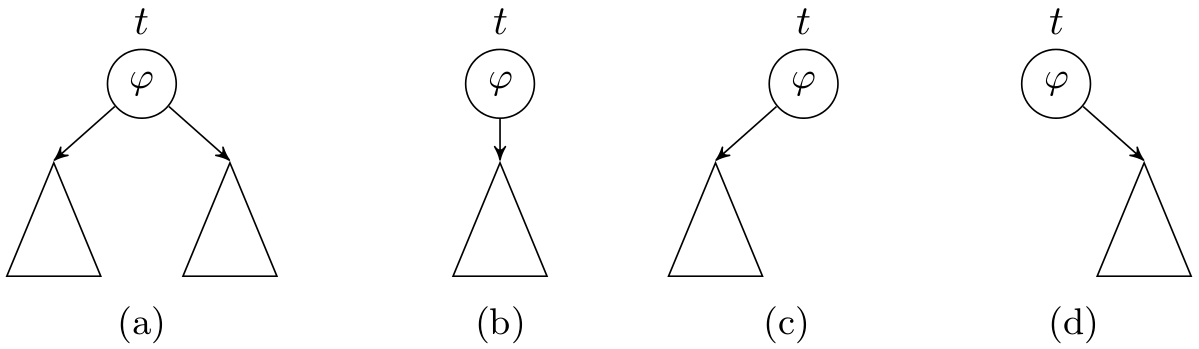
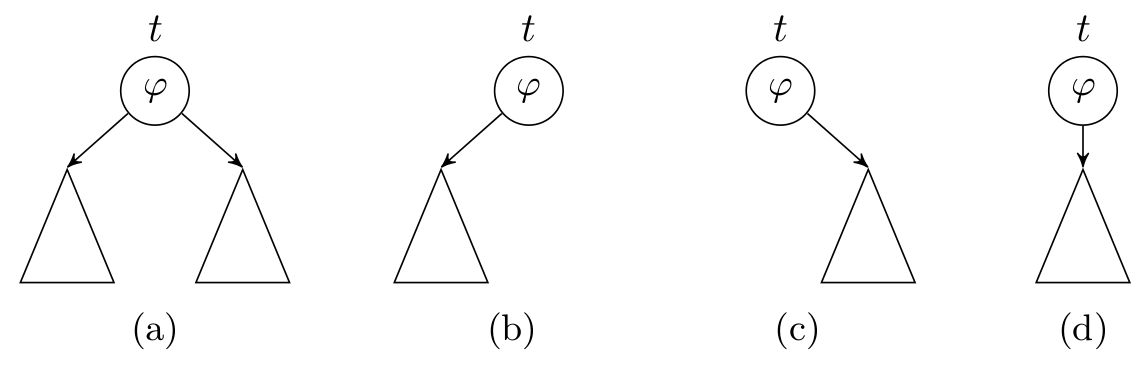
Finished the practice in practice.txt.

diff --git a/ptrees.tex b/ptrees.tex
@@ -103,6 +103,9 @@
 \newcommand{\tit}[1]{\textit{#1}}
 \newcommand{\tbf}[1]{\textbf{#1}}
 
+\newcommand\subsetsim{\mathrel{%
+  \ooalign{\raise0.2ex\hbox{$\subset$}\cr\hidewidth\raise-0.8ex\hbox{\scalebox{0.9}{$\sim$}}\hidewidth\cr}}}
+
 \newcommand{\Fontalg}{\fontsize{7}{7.2}\selectfont}
 
 \newcommand{\frameT}[2]{\frame{\frametitle{#1} #2}}
@@ -159,19 +162,12 @@
 						}, or \tit{P-trees},
 					and formally introduce their \tit{compact} representations.
 		\item We relate P-trees to existing preference formalisms such as
-					\tit{lexicographic preference trees}\fn{
-						Booth, Chevaleyre, Lang, Mengin, and Sombattheera.
-						\tit{Learning conditionally lexicographic preference relations}, 2010.
-						} (\tit{LP-trees}), 
-					\tit{answer set optimization}\fn{
-						Brewka, Niemel¨a, and Truszczynski. \tit{Answer set optimization}, 2003.
-						} (\tit{ASO}) and \tit{possibilistic logic}\fn{
-						Dubois, Lang, and Prade.
-						\tit{A brief overview of possibilistic logic}, 1991.} (\tit{Poss-theories}).
+					\tit{lexicographic preference trees} (\tit{LP-trees}), 
+					\tit{answer set optimization} (\tit{ASO}) and \tit{possibilistic 
+					logic} (\tit{Poss-theories}).
 		\item We study decision problems in the setting of P-trees and obtain computational
 					complexity results.
 	\end{enumerate}
-
 }
 
 
@@ -266,6 +262,88 @@
 	\begin{center}
 		$\textcolor{red}{\neg x_1 \neg x_2x_3\neg x_4} \succ \textcolor{green}{x_1 \neg x_2x_3x_4}$
 	\end{center}
+}
+
+\frameT{Compact Representation of P-trees}{
+\begin{figure}[!ht]
+	\centering
+		\subfigure[Full]{
+		\centering
+		  \begin{tikzpicture}[->,>=stealth',
+  	     level 1/.style={sibling distance=4.3cm, level distance=28pt},
+  	     level 2/.style={sibling distance=2.2cm, level distance=28pt},
+  	     level 3/.style={sibling distance=1.0cm, level distance=28pt},
+  	     level 4/.style={sibling distance=0.5cm, level distance=28pt}]
+		    \node [main node,inner sep=1.7pt] (1){$\varphi_1$}
+		    child {node [main node,inner sep=1.7pt] (2) {$\varphi_2$}
+		      child {node [main node,inner sep=1.7pt] (3) {$\varphi_3$}
+		        child {node [main node,inner sep=1.7pt] (4) {$\varphi_4$}
+  	          child {node [rectangle,draw] (16) {}}
+  	          child {node [rectangle,draw] (17) {}}
+						}
+		        child {node [main node,inner sep=1.7pt] (5) {$\varphi_4$}
+  	          child {node [rectangle,draw] (18) {}}
+  	          child {node [rectangle,draw] (19) {}}
+						}
+					}
+		      child {node [main node,inner sep=1.7pt] (6) {$\varphi_3$}
+		        child {node [main node,inner sep=1.7pt] (7) {$\varphi_4$}
+  	          child {node [rectangle,draw] (20) {}}
+  	          child {node [rectangle,draw] (21) {}}
+						}
+		        child {node [main node,inner sep=1.7pt] (8) {$\varphi_4$}
+  	          child {node [rectangle,draw] (22) {}}
+  	          child {node [rectangle,draw] (23) {}}
+						}
+		      }
+				}
+		    child {node [main node,inner sep=1.7pt] (9) {$\varphi_2$}
+		      child {node [main node,inner sep=1.7pt] (10) {$\varphi_3$}
+		        child {node [main node,inner sep=1.7pt] (11) {$\varphi_4$}
+  	          child {node [rectangle,draw] (24) {}}
+  	          child {node [rectangle,draw] (25) {}}
+						}
+		        child {node [main node,inner sep=1.7pt] (12) {$\varphi_4$}
+  	          child {node [rectangle,draw] (26) {}}
+  	          child {node [rectangle,draw] (27) {}}
+						}
+					}
+		      child {node [main node,inner sep=1.7pt] (13) {$\varphi_3$}
+		        child {node [main node,inner sep=1.7pt] (14) {$\varphi_4$}
+  	          child {node [rectangle,draw] (28) {}}
+  	          child {node [rectangle,draw] (29) {}}
+						}
+		        child {node [main node,inner sep=1.7pt] (15) {$\varphi_4$}
+  	          child {node [rectangle,draw] (30) {}}
+  	          child {node [rectangle,draw] (31) {}}
+						}
+		      }
+				}
+				;
+		  \end{tikzpicture}
+		}%
+		\subfigure[Compact]{
+			\hspace{0.8cm}
+			\begin{tikzpicture}[->,>=stealth',
+  	     level 1/.style={sibling distance=4.3cm, level distance=28pt},
+  	     level 2/.style={sibling distance=2.2cm, level distance=28pt},
+  	     level 3/.style={sibling distance=1.0cm, level distance=28pt},
+  	     level 4/.style={sibling distance=0.5cm, level distance=28pt}]
+			  \node [main node,inner sep=1.7pt] (1){$\varphi_1$}
+			    child {node [main node,inner sep=1.7pt] (3) {$\varphi_2$}
+						child {node [main node,inner sep=1.7pt] (4) {$\varphi_3$}
+							child {node [main node,inner sep=1.7pt] (5) {$\varphi_4$}
+              	child {node [rectangle] (6) {} edge from parent[draw=none]}
+							}
+						}
+					};
+			\end{tikzpicture}
+			\hspace{0.8cm}
+		}
+  \caption{Compact P-trees}
+%	\vspace{-0.2cm}
+  \label{fig:LPT_full}
+\end{figure}
 }
 
 \frameT{Compact Representation of P-trees}{
@@ -372,8 +450,8 @@
 		\item every node is labeled with a Boolean formula over $\cI$, and
 	  \item every non-leaf node $t$ labeled with $\varphi$ has either
 	        two outgoing edges (Figure (a)), or one 
-	    		outgoing edge pointing straight-down (Figure (b)),
-					left (Figure (c)), or right (Figure (d)).
+	    		outgoing edge pointing left (Figure (b)),
+					right (Figure (c)), or straight-down (Figure (d)).
 	\end{enumerate}
 	
 	\begin{figure}[ht!]
@@ -385,7 +463,10 @@
 
 
 \subsection{Relating Other Preference Formalisms}
-\frameT{From LP-Trees to P-Trees}{
+\frameT{From LP-Trees\fn{
+	Booth, Chevaleyre, Lang, Mengin, and Sombattheera.
+	\tit{Learning conditionally lexicographic preference relations}, 2010.
+} to P-Trees}{
 	\begin{figure}[!ht]
 		\centering
 	  \subfigure[An LP-tree $L$]{
@@ -497,7 +578,9 @@
 %	\end{center}
 %}
 
-\frameT{From ASO-Rules to P-Trees}{
+\frameT{From ASO-Rules\fn{
+	Brewka, Niemel¨a, and Truszczynski. \tit{Answer set optimization}, 2003.
+} to P-Trees}{
 	From the ASO-rule $r$, we build a P-tree $T_r$,
 	where $\varphi_1 = \neg B \vee C_1$,
 	$\varphi_i =C_i$ ($2 \leq i \leq m$).
@@ -621,7 +704,9 @@
 %}
 %
 
-\frameT{From P-trees to ASO-Theories}{
+\frameT{From P-trees to ASO-Theories\fn{
+	Brewka, Niemel¨a, and Truszczynski. \tit{Answer set optimization}, 2003.
+}}{
 	\begin{figure}
 	  \centering
 	  \subfigure[P-tree $T$]{
@@ -685,7 +770,10 @@
 %	\end{enumerate}
 %}
 
-\frameT{From Poss-theories to P-Trees}{
+\frameT{From Poss-theories\fn{
+						Dubois, Lang, and Prade.
+						\tit{A brief overview of possibilistic logic}, 1991.
+} to P-Trees}{
 	Given a possibilistic logic theory $\Pi$, we now build a P-tree $T_\Pi$, 
 	where $\varphi_1=\bigwedge_{\substack{1\leq i \leq m}} \phi_i$, 
 	$\varphi_2=\bigwedge_{\substack{1\leq i \leq m-1}} \phi_i \wedge \neg \phi_m$,
@@ -729,7 +817,7 @@
 
 \frameT{Relative Expressivity of Preference Languages}{
 	\begin{center}
-		Poss-theories = ASO-rules $\subset$ \dual{LP-trees/\dual{$\cap$/P-trees}} $\subset$ ASO-theories
+		Poss-theories = ASO-rules $\subsetsim$ \dual{LP-trees/\dual{$\cap$/P-trees}} $\subset$ ASO-theories
 	\end{center}
 }
 
@@ -774,8 +862,8 @@
 			\hline
 			\pbox{20cm}{ASO-rule/ \\ Poss-theory} & P & coNP-c & $\deltap{2}$($P^{NP}$) \\
 	    \hline
-	    P-tree & P & coNP-c\fn{The complement problem is reduced from the SAT problem.}
-				& $\deltap{2}$($P^{NP}$)-c\fn{The problem is reduced from the Maximum Satisfying 
+	    \tbf{P-tree} & \tbf{P} & \tbf{coNP-c}\fn{The complement problem is reduced from the SAT problem.}
+				& \tbf{$\deltap{2}$($P^{NP}$)-c}\fn{The problem is reduced from the Maximum Satisfying 
 																					Assignment (MSA) problem.}\\
 			\hline
 			ASO-theory & P & coNP-c & $\sigmap{2}$($NP^{NP}$)-c \\
